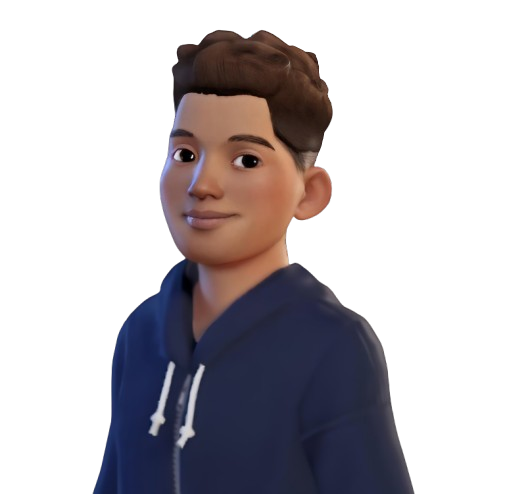
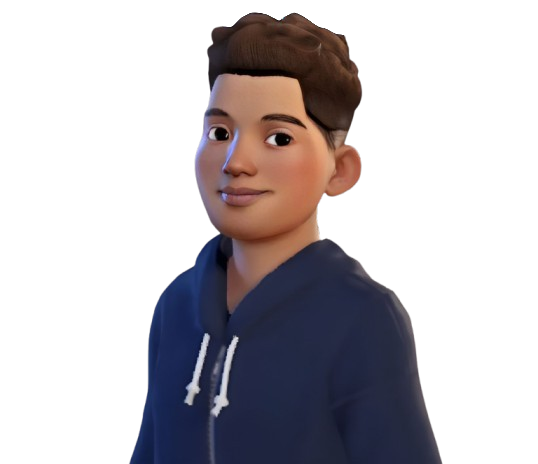
new boy image

Changed region(s): [[0.1782, 0.0302, 0.802, 1.0], [0.802, 0.9353, 0.8317, 0.9957]]

diff --git a/src/App.css b/src/App.css
@@ -1,5 +1,8 @@
 .pageBg {
   background: linear-gradient(to right, #5bbadc, #1e78b4);
+  background-image: url(./assets/background.png);
+  background-size: cover;
+  background-position: center;
   display: flex;
   justify-content: center;
   align-items: end;
@@ -9,7 +12,7 @@
 }
 
 .boneco {
-  filter: drop-shadow(0px 0px 1px #000000);
+  /* filter: drop-shadow(0px 0px 1px #000000); */
   height: 70%;
 }
 
@@ -68,7 +71,8 @@
   left: 0;
   width: 0;
   height: 2px;
-  background: black; /* Change color as needed */
+  background: black;
+  /* Change color as needed */
   transition: width 0.4s ease-in-out;
 }
 
@@ -81,7 +85,7 @@
     opacity: 0;
     transform: scale(0.9);
   }
-  
+
   to {
     opacity: 1;
     transform: scale(1);
@@ -91,9 +95,10 @@
 @keyframes slideIn {
   from {
     opacity: 0;
-    transform: translateY(100px); /* Moves the element 20px down */
+    transform: translateY(100px);
+    /* Moves the element 20px down */
   }
-  
+
   to {
     opacity: 1;
     transform: translateY(0);
@@ -115,16 +120,20 @@
 }
 
 @media (max-width: 768px) {
+  .pageBg {
+    background-position: unset;
+  }
+
   .boneco {
     height: 60%;
   }
-  
+
   .messageLayout {
     font-size: 17px;
     width: 80%;
     padding: 20px;
   }
-  
+
   .buttonHub {
     gap: 10px;
   }

diff --git a/src/App.js b/src/App.js
@@ -2,6 +2,7 @@ import { useEffect, useState } from "react";
 import { Routes, Route, useNavigate } from "react-router-dom";
 import HomePage from "./pages/homePage";
 import Boneco from "./assets/boneco.png";
+import BonecoNormal from "./assets/bonecoNormal.png";
 import "./App.css";
 import Question1 from "./pages/question1";
 import FinalMessage from "./pages/finalMessage";
@@ -11,8 +12,24 @@ import Question4 from "./pages/question4";
 import Question5 from "./pages/question5";
 
 export const Menino = ({ className }) => {
-  return <img className={`boneco ${className}`} src={Boneco} alt="Menino" />;
+  const [selectedImage, setSelectedImage] = useState(Boneco);
+  const [animationClass, setAnimationClass] = useState(""); 
+
+  useEffect(() => {
+    setAnimationClass("slide-in");
+
+    const randomImage = Math.random() < 0.5 ? Boneco : BonecoNormal;
+    
+    const timeout = setTimeout(() => {
+      setSelectedImage(randomImage);
+    }, 50); 
+
+    return () => clearTimeout(timeout); 
+  }, []); 
+
+  return <img className={`boneco ${className} ${animationClass}`} src={selectedImage} alt="Menino" />;
 };
+
 
 
 function App() {
